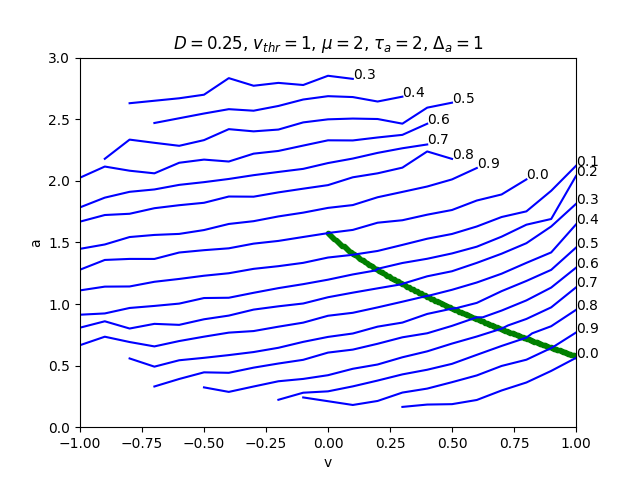
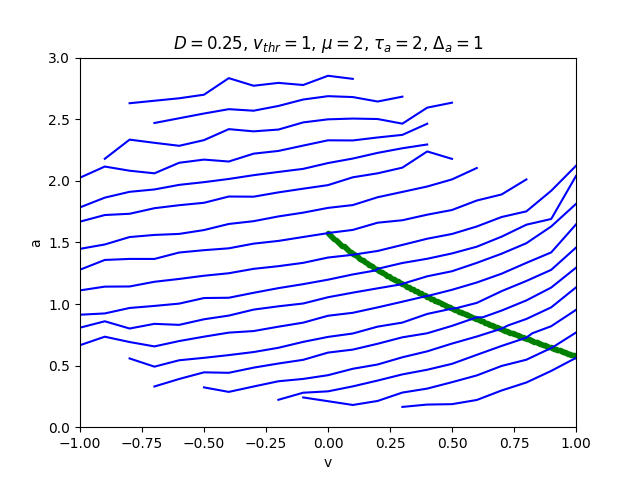
more plots

diff --git a/mrt_phase_pde/pde/own_method/get_T_N_single.py b/mrt_phase_pde/pde/own_method/get_T_N_single.py
@@ -20,10 +20,10 @@ D = .0
 v_min = -1
 v_max = 1
 a_min = 0
-a_max = 4
+a_max = 3
 
 n_v = int(v_max - v_min) * 20 + 1
-n_a = int(a_max - a_min) * 10 + 1
+n_a = int(a_max - a_min) * 20 + 1
 
 v = np.linspace(v_min, v_max, n_v)
 a = np.linspace(a_min, a_max, n_a)
@@ -47,6 +47,9 @@ if __name__ == '__main__':
     T_0 = T_0.load(f'data/T_0_D_{D}_sim_n_thr_1.pickle')
     # T_0 = T_0.load('data/T_0_D_0.25_sim_n_thr_1.pickle')
 
+    v = T_0.v
+    a = T_0.a
+
     idx_v_zero = np.where(prob.v == 0)[0][0]
 
     # T N minus 1
@@ -56,21 +59,21 @@ if __name__ == '__main__':
 
     a_max = np.max(T_0.a)
 
-    l_max = int(a_max) - 5 # 5
+    l_max = int(a_max) - 4 # 5
 
     for l in range(l_max):
         print(f'l: {l}')
         a_max -= 1
 
-        n_a = int(a_max - a_min) * 10 + 1
-        a = np.linspace(a_min, a_max, n_a)
+        n_a = int(a_max - a_min) * 20 + 1
+        a_new = np.linspace(a_min, a_max, n_a)
         idx_a = np.where((T_0.a <= Delta_a + a_max) & (T_0.a >= Delta_a))
         # a_bins = np.insert(a, len(a), a[-1] + np.diff(a)[0])
 
         # T_N at v = 0
-        T_N_0 = np.zeros(len(a))
+        T_N_0 = np.zeros(len(a_new))
 
-        for j, _a in enumerate(a):
+        for j, _a in enumerate(a_new):
             # pass
             # hist = plt.hist(prob[idx_v_zero][j][:, 0], bins=a_bins, density=True)
             p = prob[idx_v_zero][j][:len(idx_a[0])]
@@ -78,7 +81,7 @@ if __name__ == '__main__':
             i_0 = np.where(T_0.v == 0)[0][0]
             j_0 = np.where(T_0.a == _a)[0][0]
 
-            T_N_0[j] = T_0[i_0, j_0] + np.sum(p * T_N_1[idx_a]) * np.diff(a)[0]
+            T_N_0[j] = T_0[i_0, j_0] + np.sum(p * T_N_1[idx_a]) * np.diff(a_new)[0]
 
         T_N_1 = copy.copy(T_N_0)
         T_N_all.append(T_N_0)
@@ -89,7 +92,7 @@ if __name__ == '__main__':
         if i == 0:
             continue
         diff = T - T_N_all[i - 1][:len(T)]
-        plt.plot(np.linspace(a_min, np.max(T_0.a), int(np.max(T_0.a) - a_min) * 10 + 1)[:len(T)], diff)
+        plt.plot(np.linspace(a_min, np.max(T_0.a), int(np.max(T_0.a) - a_min) * 20 + 1)[:len(T)], diff)
 
     plt.title(f'$(T_N(0, a) - T_{{N-1}}(0, a))$ for various $N$, $D={D}$')
     plt.xlabel('a')
@@ -98,36 +101,36 @@ if __name__ == '__main__':
     plt.savefig(f'img\\difference_in_T_N_at_0_D_{D}.png')
 
     a_max -= 1
-    n_a = int(a_max - a_min) * 10 + 1
-    a = np.linspace(a_min, a_max, n_a)
+    n_a = int(a_max - a_min) * 20 + 1
+    a_new = np.linspace(a_min, a_max, n_a)
     idx_a = np.where((T_0.a <= Delta_a + a_max) & (T_0.a >= Delta_a))
-    a_bins = np.insert(a, len(a), a[-1] + np.diff(a)[0])
+    a_bins = np.insert(a_new, len(a_new), a_new[-1] + np.diff(a_new)[0])
 
-    T_N = np.zeros((len(v), len(a)))
+    T_N = np.zeros((len(v), len(a_new)))
 
     for i, _v in enumerate(v):
-        for j, _a in enumerate(a):
+        for j, _a in enumerate(a_new):
             # pass
             p = prob[i][j][:len(idx_a[0])]
 
             i_0 = np.where(_v == T_0.v)[0][0]
             j_0 = np.where(_a == T_0.a)[0][0]
 
-            T_add = np.sum(p * T_N_1[idx_a]) * np.diff(a)[0]
+            T_add = np.sum(p * T_N_1[idx_a]) * np.diff(a_new)[0]
             T_N[i, j] = T_0[i_0, j_0] + T_add
 
-    t_n = T_N_class(v, a, T_N, l + 1)
+    t_n = T_N_class(v, a_new, T_N, l + 1)
     # l + 1
     t_n.save(f'result\\T_N_{l + 1}_D_{D}.pickle')
 
-    __x, __y = np.meshgrid(v, a)
+    __x, __y = np.meshgrid(v, a_new)
 
     plt.figure()
     plt.contourf(__x, __y, T_N.transpose(), levels=30)  # , v_min=-30, v_max=30)
     plt.colorbar()
     plt.xlabel('v')
     plt.ylabel('a')
-    plt.ylim([0, 4])
+    plt.ylim([0, a_max])
     plt.title(
         f'$T_{{{l + 1}}}(v,a)$, $D={D}$')
         # f'\n $v_{{thr}}={v_th}$, $\\mu={mu}$, $\\tau_a={tau_a}$, $\\Delta_a={Delta_a}$')

diff --git a/mrt_phase_pde/pde/own_method/src/get_T_0_and_exit_point_distribution.py b/mrt_phase_pde/pde/own_method/src/get_T_0_and_exit_point_distribution.py
@@ -1,5 +1,6 @@
 import numpy as np
 import matplotlib.pyplot as plt
+import math
 
 from mrt_phase_numeric.src.config import equation_config
 from mrt_phase_pde.pde.own_method.src.T_0.T_0 import T_0
@@ -18,7 +19,7 @@ dt = 0.01
 v_min = -1
 v_max = 1.0
 a_min = 0
-a_max = 10
+a_max = 20
 
 n_v = int((v_max - v_min)) * 20 + 1
 n_a = int((a_max - a_min)) * 20 + 1
@@ -32,7 +33,15 @@ a = np.linspace(a_min, a_max, n_a)
 v_thr = 1.0
 n_trajectories = 1
 
-n_thr_crossings = 1
+n_thr_crossings = 15
+
+
+def find_nearest(array, value):
+    idx = np.searchsorted(array, value, side="left")
+    if idx > 0 and (idx == len(array) or math.fabs(value - array[idx-1]) < math.fabs(value - array[idx])):
+        return idx-1
+    else:
+        return idx
 
 
 def update_until_line_cross(v, a):
@@ -56,7 +65,12 @@ def get_rt_a_distr(_v, _a):
         a_distr.append(a_[-1])
 
     a_distr = np.array(a_distr)
-    hist = plt.hist(a_distr, bins=a_bins, density=True)
+    # hist = plt.hist(a_distr, bins=a_bins, density=True)
+    hist = np.histogram(a_distr, bins=a_bins, density=True)
+
+    idx = find_nearest(a_bins, a_[-1])
+
+
     p = hist[0]
 
     mean_rt = np.mean(rt)
@@ -85,10 +99,10 @@ if __name__=='__main__':
     T, prob = _get()
 
     T_0_ = T_0(v, a, T)
-    T_0_.save(f'..\\..\\data\\T_0_D_{D}_sim_n_thr_{n_thr_crossings}.pickle')
+    T_0_.save(f'..\\data\\T_0_D_{D}_sim_n_thr_{n_thr_crossings}.pickle')
 
     exit_point_distribution = ExitPointDistribution(v, a, prob)
-    exit_point_distribution.save(f'..\\..\\data\\epd_sim_D_{D}.pickle')
+    exit_point_distribution.save(f'..\\data\\epd_sim_D_{D}.pickle')
 
     __x, __y = np.meshgrid(v, a)
 

diff --git a/mrt_phase_pde/pde/own_method/plot_T_N.py b/mrt_phase_pde/pde/own_method/plot_T_N.py
@@ -30,7 +30,7 @@ if __name__ == '__main__':
     prob = ExitPointDistribution.load(f'data/epd_sim_D_{D}.pickle')
     # T_0 = T_0.load(f'data/T_0_D_{D}_sim.pickle')
     # T_N = T_N_class.load(f'result/T_N_15_D_{D}.pickle')
-    T_N = T_N_class.load(f'data/T_0_D_{D}_sim_n_thr_1.pickle')
+    T_N = T_N_class.load(f'data/T_0_D_{D}_sim_n_thr_15.pickle')
     # T_0 = T_0.load('data/T_0_D_0.25_sim_n_thr_1.pickle')
 
     __x, __y = np.meshgrid(T_N.v, T_N.a)
@@ -41,8 +41,8 @@ if __name__ == '__main__':
     plt.xlabel('v')
     plt.ylabel('a')
     plt.ylim([0, 4])
-    plt.title(
-        f'$T_{{{T_N.n_thr}}}(v,a)$, $D={D}$')
+    # plt.title(
+    #     f'$T_{{{T_N.n_thr}}}(v,a)$, $D={D}$')
         # f'\n $v_{{thr}}={v_th}$, $\\mu={mu}$, $\\tau_a={tau_a}$, $\\Delta_a={Delta_a}$')
 
     # plt.savefig(f'img\\T_N_{l + 1}_D_{D}.png')
@@ -50,7 +50,7 @@ if __name__ == '__main__':
     det_file_paths = '..\\..\\..\\mrt_phase_numeric\\data\\results\\isochrones\\from_timeseries_grid\\deterministic\\D_0.0'
     stochastic = f'..\\..\\..\\mrt_phase_numeric\\data\\results\\isochrones\\from_timeseries\\stochastic\\D_{D}'
 
-    # isochrones = load_isochrones(det_file_paths)
-    # isochrones = load_isochrones(stochastic)
+    isochrones = load_isochrones(det_file_paths)
+    isochrones = load_isochrones(stochastic)
     # plot_isochrones(isochrones, 'g--')
     plt.xlim([-1,1])

diff --git a/mrt_phase_numeric/isochrones/plot_isochrones/plot_isochrones.py b/mrt_phase_numeric/isochrones/plot_isochrones/plot_isochrones.py
@@ -20,7 +20,7 @@ v_th = equation_config['v_th']
 tau_a = equation_config['tau_a']
 delta_a = equation_config['delta_a']
 
-D = 1.0
+D = 0.25
 # D = 0.25
 
 det_file_paths = '../../data/results/isochrones/from_timeseries_grid/deterministic/D_0.0'
@@ -67,9 +67,9 @@ def load_isochrones(data_location):
 
 
 def plot_isochrones(isochrones_list):
-    exclude = ['phi_0.4']
+    # exclude = ['phi_0.4']
     # exclude = ['phi_0.6']
-    # exclude = []
+    exclude = []
 
     for key in isochrones_list.keys():
         if key in exclude:
